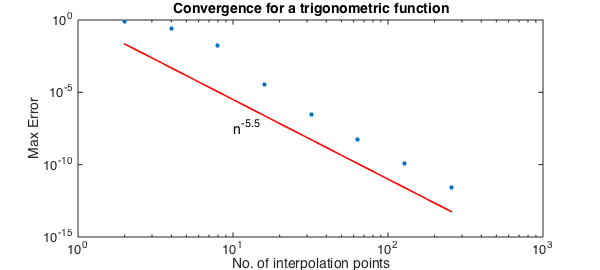
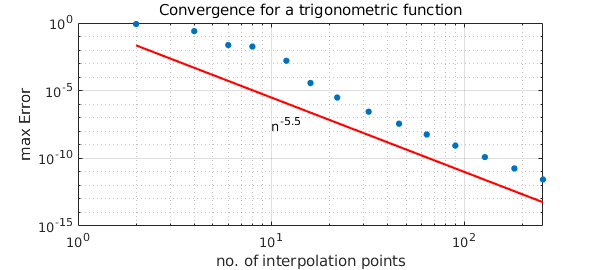
updates

diff --git a/examples/cheb/img/Convergence.html b/examples/cheb/img/Convergence.html
@@ -17,7 +17,7 @@ First we consider the function $|x|^\pi$.
 
 <pre class="mcode-input">MS = 'MarkerSize';
 x = chebfun('x');
-nn = 2*round(2.^(0:7));
+nn = 2*round(2.^(0:.5:7));
 ee = 0*nn;
 f = abs(x)^pi;
 warning off
@@ -25,7 +25,7 @@ for j = 1:length(nn)
    fn = chebfun(f,nn(j)); ee(j) = norm(f-fn,inf);
 end
 warning on
-loglog(nn,nn.^-pi,'r'), hold on
+loglog(nn,nn.^-pi,'r'), hold on, grid on
 loglog(nn,ee,'.',MS,14), hold off
 xlabel('no. of interpolation points'), ylabel('max Error')
 text(10,1e-4,'n^{-\pi}')
@@ -43,14 +43,14 @@ Next we replace $|x|^\pi$ by $\sin(|x|^{x+5.5})$.
 for j = 1:length(nn)
    fn = chebfun(f,nn(j)); ee(j) = norm(f-fn,inf);
 end
-loglog(nn,nn.^-5.5,'r',LW,1.6), hold on
-loglog(nn,ee,'.',MS,16),
+loglog(nn,nn.^-5.5,'r'), hold on, grid on
+loglog(nn,ee,'.',MS,14),
 xlabel('no. of interpolation points'), ylabel('max Error')
 text(10,3e-8,'n^{-5.5}')
 title('Convergence for a trigonometric function')
-hold off</pre><pre class="mcode-output">Undefined function or variable 'LW'.
-Error in Convergence (line 52)
-loglog(nn,nn.^-5.5,'r',LW,1.6), hold on</pre>Again the fractional differentiability determines the convergence rate.
+hold off</pre><img src="img/Convergence_02.png" class="figure" alt="">
+
+Again the fractional differentiability determines the convergence rate.
 
 
 

diff --git a/examples/cheb/Convergence.html b/examples/cheb/Convergence.html
@@ -67,7 +67,7 @@
 <p>First we consider the function $|x|^\pi$.</p>
 <pre class="mcode-input">MS = 'MarkerSize';
 x = chebfun('x');
-nn = 2*round(2.^(0:7));
+nn = 2*round(2.^(0:.5:7));
 ee = 0*nn;
 f = abs(x)^pi;
 warning off
@@ -75,7 +75,7 @@ for j = 1:length(nn)
    fn = chebfun(f,nn(j)); ee(j) = norm(f-fn,inf);
 end
 warning on
-loglog(nn,nn.^-pi,'r'), hold on
+loglog(nn,nn.^-pi,'r'), hold on, grid on
 loglog(nn,ee,'.',MS,14), hold off
 xlabel('no. of interpolation points'), ylabel('max Error')
 text(10,1e-4,'n^{-\pi}')
@@ -89,17 +89,14 @@ title('Convergence for fractional differentiable function')</pre>
 for j = 1:length(nn)
    fn = chebfun(f,nn(j)); ee(j) = norm(f-fn,inf);
 end
-loglog(nn,nn.^-5.5,'r',LW,1.6), hold on
-loglog(nn,ee,'.',MS,16),
+loglog(nn,nn.^-5.5,'r'), hold on, grid on
+loglog(nn,ee,'.',MS,14),
 xlabel('no. of interpolation points'), ylabel('max Error')
 text(10,3e-8,'n^{-5.5}')
 title('Convergence for a trigonometric function')
 hold off</pre>
 
-<pre class="mcode-output">Undefined function or variable 'LW'.
-Error in Convergence (line 52)
-loglog(nn,nn.^-5.5,'r',LW,1.6), hold on</pre>
-
+<p><img src="img/Convergence_02.png" class="figure" alt=""></p>
 <p>Again the fractional differentiability determines the convergence rate.</p>
 <h3 id="references">References</h3>
 <ol>

diff --git a/index.html b/index.html
@@ -273,5 +273,5 @@ plot(minx(1),minx(2),'.w')
     <script type="text/javascript" src="/js/config.js"></script>
     <script type="text/javascript" src="/js/jquery.flexslider-min.js"></script>
   </body>
-<!-- Compiled on Monday, 08 July 2019 at 14:31. -->
+<!-- Compiled on Monday, 08 July 2019 at 14:43. -->
 </html>

diff --git a/examples/cheb/Convergence.m b/examples/cheb/Convergence.m
@@ -25,7 +25,7 @@
 % First we consider the function $|x|^\pi$.
 MS = 'MarkerSize';
 x = chebfun('x');
-nn = 2*round(2.^(0:7));
+nn = 2*round(2.^(0:.5:7));
 ee = 0*nn; 
 f = abs(x)^pi; 
 warning off
@@ -33,7 +33,7 @@ for j = 1:length(nn)
    fn = chebfun(f,nn(j)); ee(j) = norm(f-fn,inf);
 end
 warning on
-loglog(nn,nn.^-pi,'r'), hold on
+loglog(nn,nn.^-pi,'r'), hold on, grid on
 loglog(nn,ee,'.',MS,14), hold off
 xlabel('no. of interpolation points'), ylabel('max Error')
 text(10,1e-4,'n^{-\pi}')
@@ -49,8 +49,8 @@ f = sin(abs(x)^(x+5.5));
 for j = 1:length(nn)
    fn = chebfun(f,nn(j)); ee(j) = norm(f-fn,inf);
 end
-loglog(nn,nn.^-5.5,'r',LW,1.6), hold on
-loglog(nn,ee,'.',MS,16), 
+loglog(nn,nn.^-5.5,'r'), hold on, grid on
+loglog(nn,ee,'.',MS,14), 
 xlabel('no. of interpolation points'), ylabel('max Error')
 text(10,3e-8,'n^{-5.5}')
 title('Convergence for a trigonometric function')
